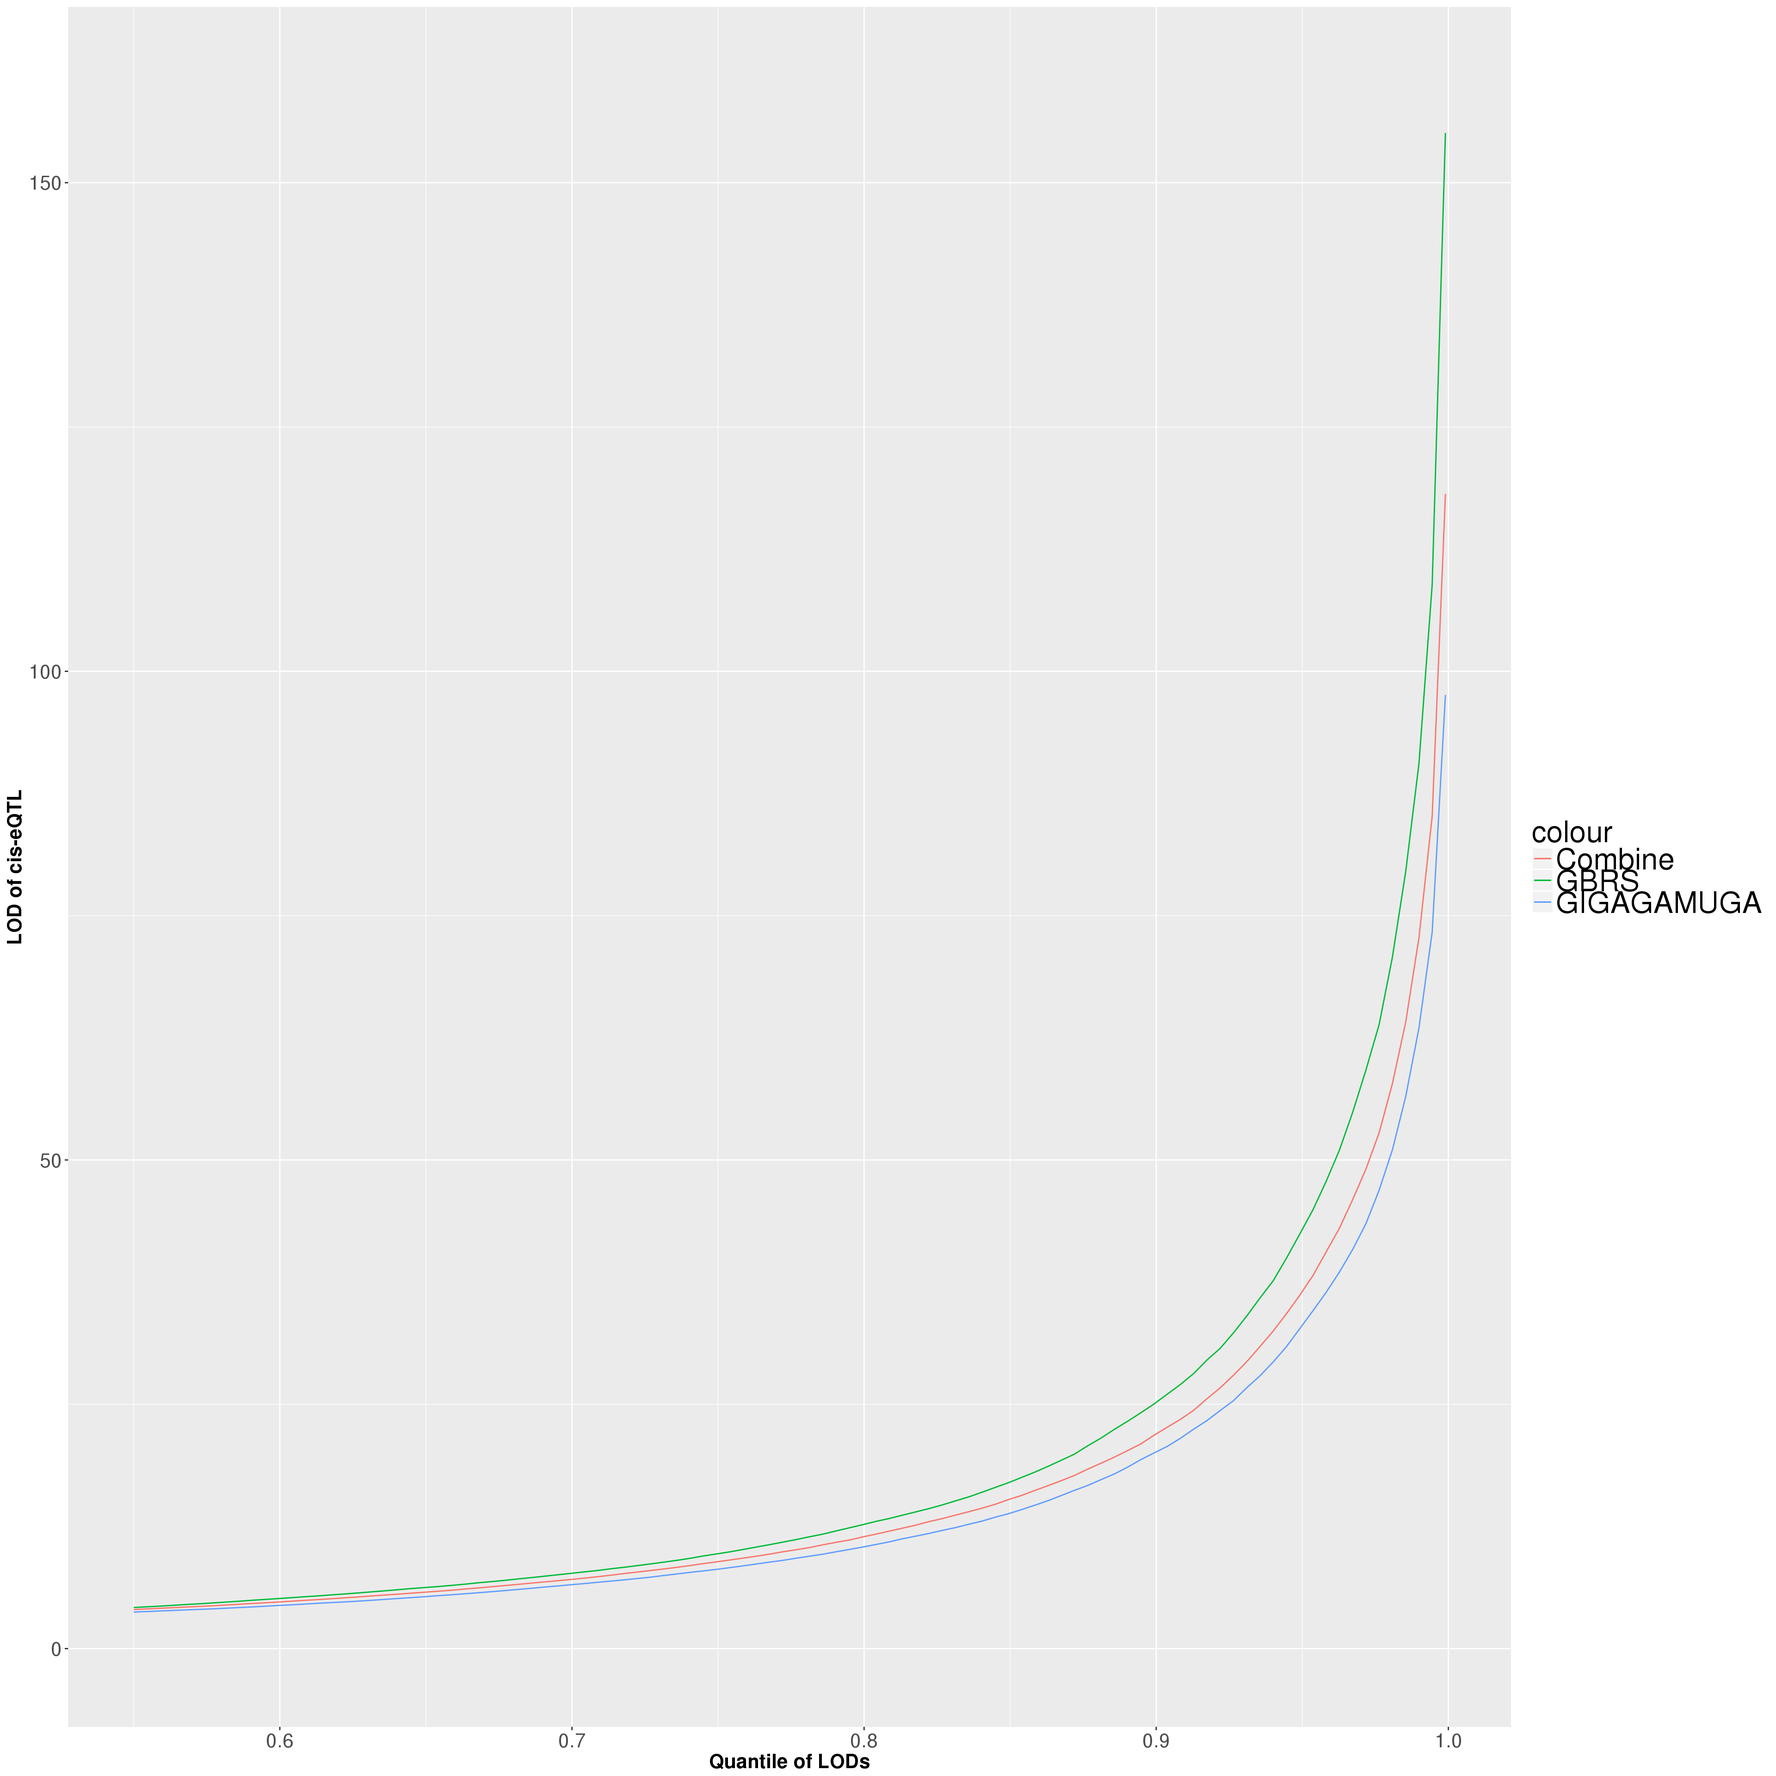
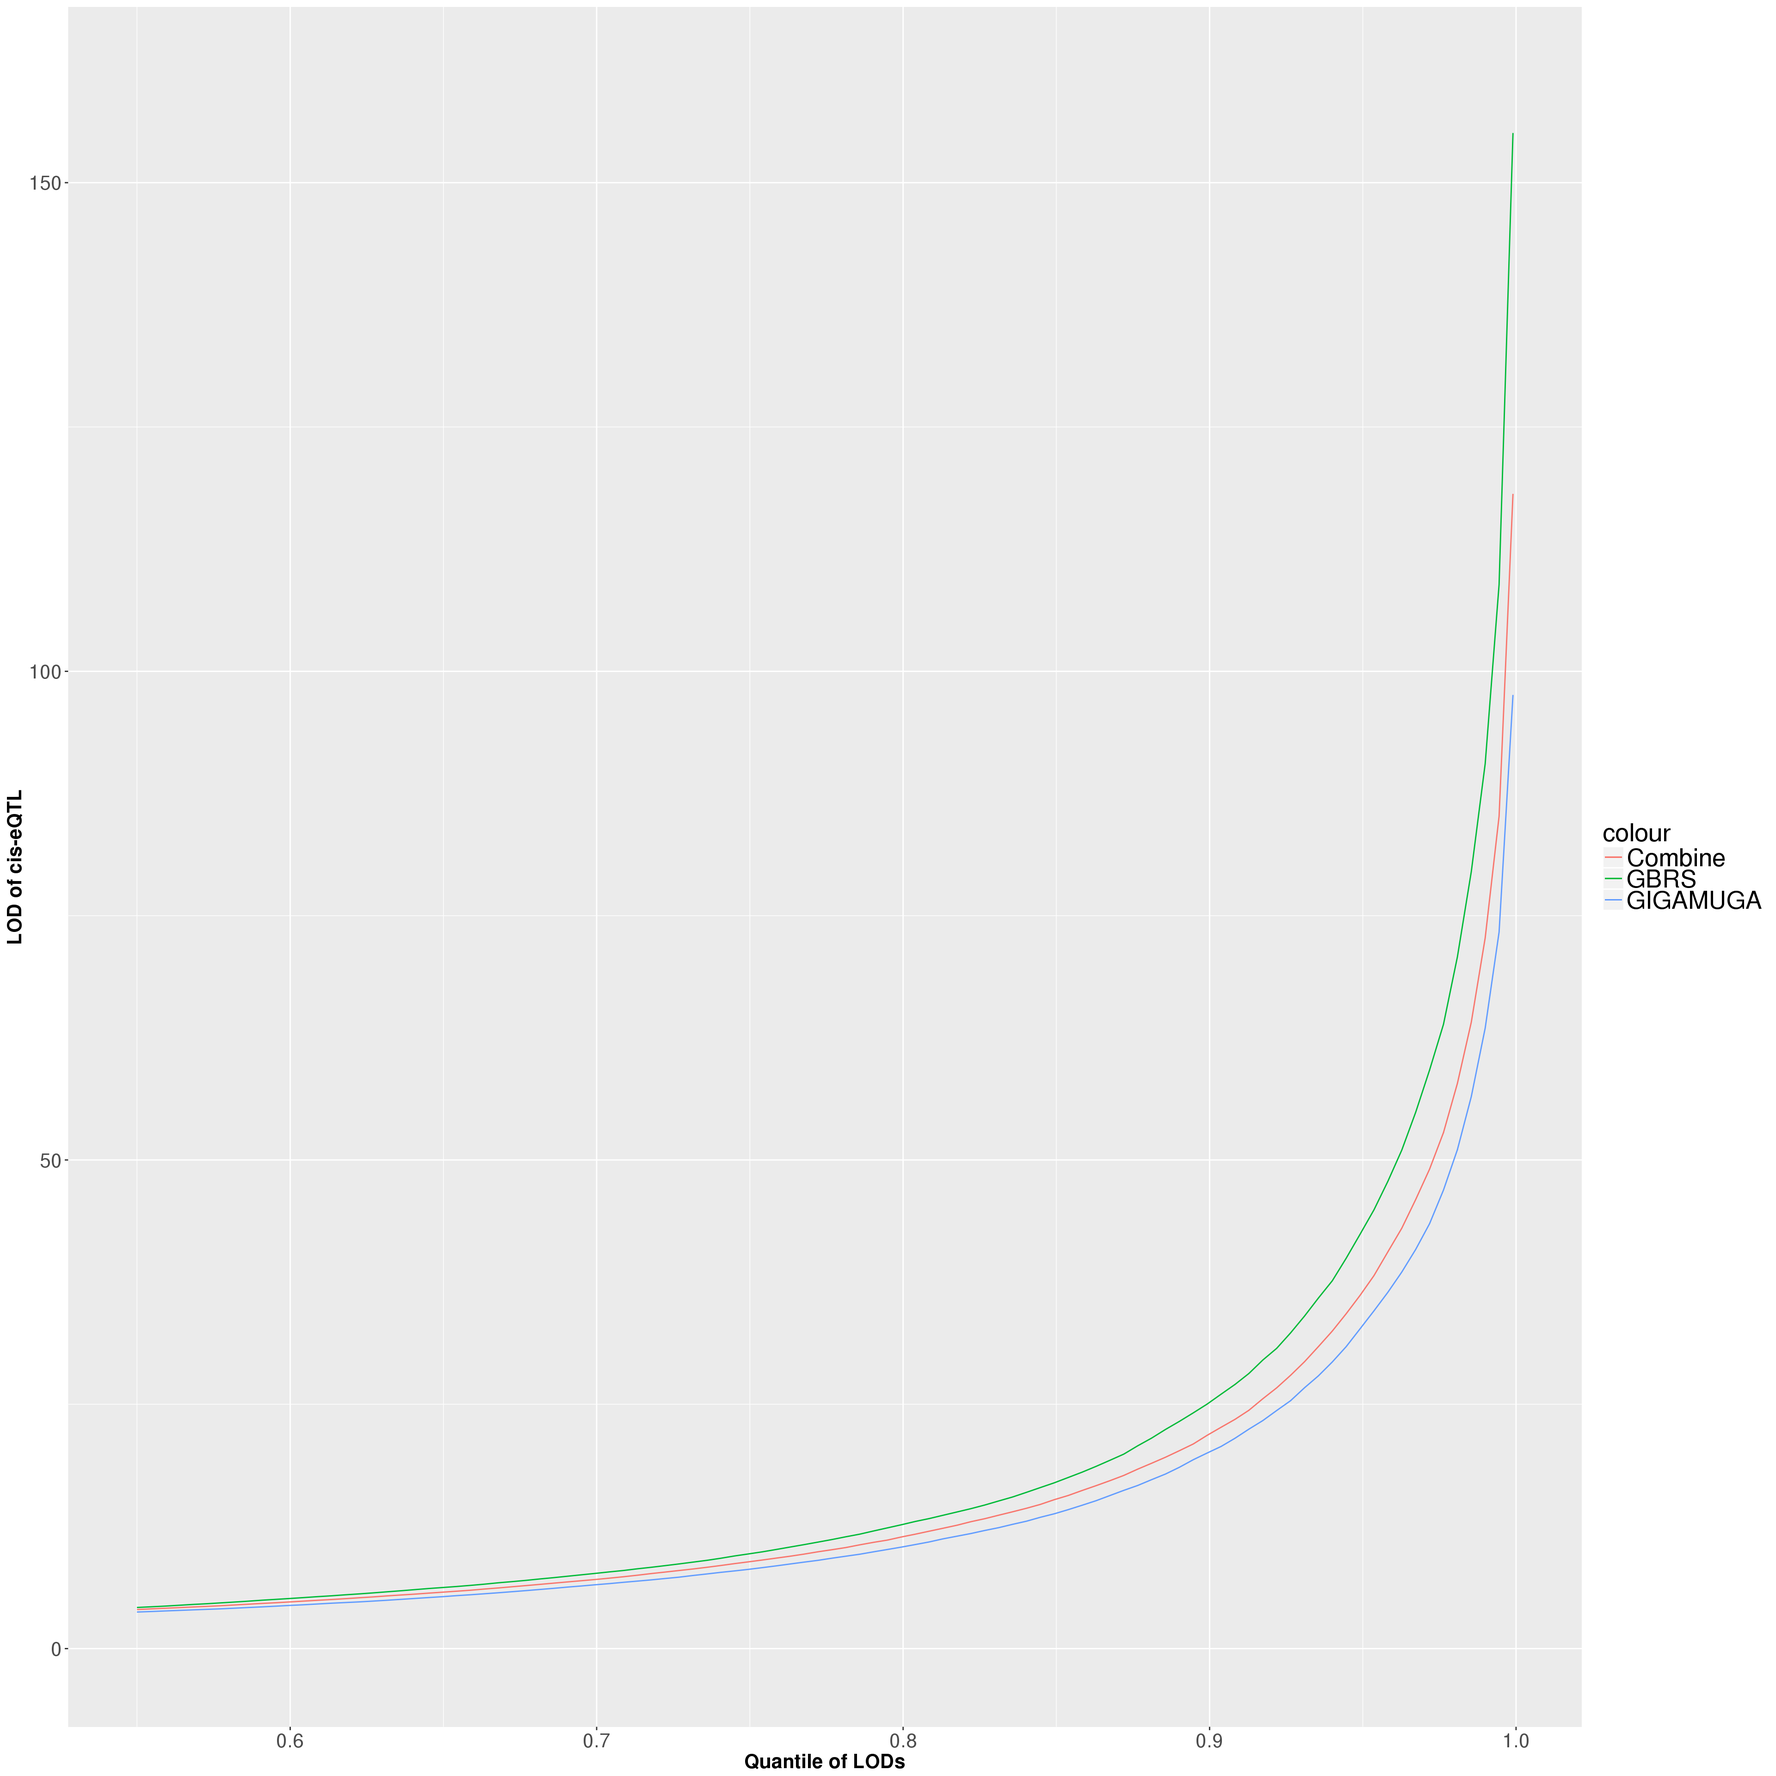
Build site.

diff --git a/docs/Cis-eQTL.html b/docs/Cis-eQTL.html
@@ -342,7 +342,7 @@ div.section {
 </details>
 </li>
 <li>
-<p><details> <summary> <strong style="color:blue;">✔</strong> <strong>Repository version:</strong> <a href="https://github.com/xhyuo/Workflowr_GBRS_array/tree/7c7bb1054c1fc1ddbe91b49e127b1cacd219a93a" target="_blank">7c7bb10</a> </summary></p>
+<p><details> <summary> <strong style="color:blue;">✔</strong> <strong>Repository version:</strong> <a href="https://github.com/xhyuo/Workflowr_GBRS_array/tree/3b86fac8c914ae22c00a15abd4f27bcd071012b1" target="_blank">3b86fac</a> </summary></p>
 Great! You are using Git for version control. Tracking code development and connecting the code version to the results is critical for reproducibility. The version displayed above was the version of the Git repository at the time these results were generated. <br><br> Note that you need to be careful to ensure that all relevant files for the analysis have been committed to Git prior to generating the results (you can use <code>wflow_publish</code> or <code>wflow_git_commit</code>). workflowr only checks the R Markdown file, but you know if there are other scripts or data files that it depends on. Below is the status of the Git repository when the results were generated:
 <pre><code>
 Ignored files:
@@ -385,6 +385,40 @@ Message
 </tr>
 </thead>
 <tbody>
+<tr>
+<td style="text-align:left;">
+Rmd
+</td>
+<td style="text-align:left;">
+<a href="https://github.com/xhyuo/Workflowr_GBRS_array/blob/3b86fac8c914ae22c00a15abd4f27bcd071012b1/analysis/Cis-eQTL.Rmd" target="_blank">3b86fac</a>
+</td>
+<td style="text-align:left;">
+xhyuo
+</td>
+<td style="text-align:left;">
+2018-11-07
+</td>
+<td style="text-align:left;">
+update building
+</td>
+</tr>
+<tr>
+<td style="text-align:left;">
+html
+</td>
+<td style="text-align:left;">
+<a href="https://cdn.rawgit.com/xhyuo/Workflowr_GBRS_array/68ba02d4ac51541f4d88098cb1312b8452074164/docs/Cis-eQTL.html" target="_blank">68ba02d</a>
+</td>
+<td style="text-align:left;">
+xhyuo
+</td>
+<td style="text-align:left;">
+2018-11-07
+</td>
+<td style="text-align:left;">
+Build site.
+</td>
+</tr>
 <tr>
 <td style="text-align:left;">
 Rmd
@@ -509,6 +543,17 @@ Date
 <tbody>
 <tr>
 <td style="text-align:left;">
+<a href="https://github.com/xhyuo/Workflowr_GBRS_array/blob/68ba02d4ac51541f4d88098cb1312b8452074164/docs/figure/Cis-eQTL.Rmd/Cis-eQTL between MUGA282 and GBRS282-1.png" target="_blank">68ba02d</a>
+</td>
+<td style="text-align:left;">
+xhyuo
+</td>
+<td style="text-align:left;">
+2018-11-07
+</td>
+</tr>
+<tr>
+<td style="text-align:left;">
 <a href="https://github.com/xhyuo/Workflowr_GBRS_array/blob/7ba11656b7324f9091573a12ba71c8218b05ed4e/docs/figure/Cis-eQTL.Rmd/Cis-eQTL between MUGA282 and GBRS282-1.png" target="_blank">7ba1165</a>
 </td>
 <td style="text-align:left;">
@@ -539,6 +584,17 @@ Date
 </tr>
 </thead>
 <tbody>
+<tr>
+<td style="text-align:left;">
+<a href="https://github.com/xhyuo/Workflowr_GBRS_array/blob/68ba02d4ac51541f4d88098cb1312b8452074164/docs/figure/Cis-eQTL.Rmd/Cis-eQTL between MUGA282 and GBRS282-2.png" target="_blank">68ba02d</a>
+</td>
+<td style="text-align:left;">
+xhyuo
+</td>
+<td style="text-align:left;">
+2018-11-07
+</td>
+</tr>
 <tr>
 <td style="text-align:left;">
 <a href="https://github.com/xhyuo/Workflowr_GBRS_array/blob/7ba11656b7324f9091573a12ba71c8218b05ed4e/docs/figure/Cis-eQTL.Rmd/Cis-eQTL between MUGA282 and GBRS282-2.png" target="_blank">7ba1165</a>
@@ -573,6 +629,17 @@ Date
 <tbody>
 <tr>
 <td style="text-align:left;">
+<a href="https://github.com/xhyuo/Workflowr_GBRS_array/blob/68ba02d4ac51541f4d88098cb1312b8452074164/docs/figure/Cis-eQTL.Rmd/Cis-eQTL between MUGA282 and GBRS282-3.png" target="_blank">68ba02d</a>
+</td>
+<td style="text-align:left;">
+xhyuo
+</td>
+<td style="text-align:left;">
+2018-11-07
+</td>
+</tr>
+<tr>
+<td style="text-align:left;">
 <a href="https://github.com/xhyuo/Workflowr_GBRS_array/blob/7ba11656b7324f9091573a12ba71c8218b05ed4e/docs/figure/Cis-eQTL.Rmd/Cis-eQTL between MUGA282 and GBRS282-3.png" target="_blank">7ba1165</a>
 </td>
 <td style="text-align:left;">
@@ -605,6 +672,17 @@ Date
 <tbody>
 <tr>
 <td style="text-align:left;">
+<a href="https://github.com/xhyuo/Workflowr_GBRS_array/blob/68ba02d4ac51541f4d88098cb1312b8452074164/docs/figure/Cis-eQTL.Rmd/Cis-eQTL between MUGA282 and GBRS282-4.png" target="_blank">68ba02d</a>
+</td>
+<td style="text-align:left;">
+xhyuo
+</td>
+<td style="text-align:left;">
+2018-11-07
+</td>
+</tr>
+<tr>
+<td style="text-align:left;">
 <a href="https://github.com/xhyuo/Workflowr_GBRS_array/blob/7ba11656b7324f9091573a12ba71c8218b05ed4e/docs/figure/Cis-eQTL.Rmd/Cis-eQTL between MUGA282 and GBRS282-4.png" target="_blank">7ba1165</a>
 </td>
 <td style="text-align:left;">
@@ -635,6 +713,17 @@ Date
 </tr>
 </thead>
 <tbody>
+<tr>
+<td style="text-align:left;">
+<a href="https://github.com/xhyuo/Workflowr_GBRS_array/blob/68ba02d4ac51541f4d88098cb1312b8452074164/docs/figure/Cis-eQTL.Rmd/Cis-eQTL between MUGA282 and GBRS282-5.png" target="_blank">68ba02d</a>
+</td>
+<td style="text-align:left;">
+xhyuo
+</td>
+<td style="text-align:left;">
+2018-11-07
+</td>
+</tr>
 <tr>
 <td style="text-align:left;">
 <a href="https://github.com/xhyuo/Workflowr_GBRS_array/blob/7ba11656b7324f9091573a12ba71c8218b05ed4e/docs/figure/Cis-eQTL.Rmd/Cis-eQTL between MUGA282 and GBRS282-5.png" target="_blank">7ba1165</a>
@@ -671,6 +760,17 @@ Date
 </tr>
 </thead>
 <tbody>
+<tr>
+<td style="text-align:left;">
+<a href="https://github.com/xhyuo/Workflowr_GBRS_array/blob/68ba02d4ac51541f4d88098cb1312b8452074164/docs/figure/Cis-eQTL.Rmd/Cis-eQTL between MUGA282 and GBRS282-6.png" target="_blank">68ba02d</a>
+</td>
+<td style="text-align:left;">
+xhyuo
+</td>
+<td style="text-align:left;">
+2018-11-07
+</td>
+</tr>
 <tr>
 <td style="text-align:left;">
 <a href="https://github.com/xhyuo/Workflowr_GBRS_array/blob/7ba11656b7324f9091573a12ba71c8218b05ed4e/docs/figure/Cis-eQTL.Rmd/Cis-eQTL between MUGA282 and GBRS282-6.png" target="_blank">7ba1165</a>
@@ -755,6 +855,17 @@ Date
 <tbody>
 <tr>
 <td style="text-align:left;">
+<a href="https://github.com/xhyuo/Workflowr_GBRS_array/blob/68ba02d4ac51541f4d88098cb1312b8452074164/docs/figure/Cis-eQTL.Rmd/Cis-eQTL between MEGAMUGA200 and GBRS200-1.png" target="_blank">68ba02d</a>
+</td>
+<td style="text-align:left;">
+xhyuo
+</td>
+<td style="text-align:left;">
+2018-11-07
+</td>
+</tr>
+<tr>
+<td style="text-align:left;">
 <a href="https://github.com/xhyuo/Workflowr_GBRS_array/blob/7ba11656b7324f9091573a12ba71c8218b05ed4e/docs/figure/Cis-eQTL.Rmd/Cis-eQTL between MEGAMUGA200 and GBRS200-1.png" target="_blank">7ba1165</a>
 </td>
 <td style="text-align:left;">
@@ -785,6 +896,17 @@ Date
 </tr>
 </thead>
 <tbody>
+<tr>
+<td style="text-align:left;">
+<a href="https://github.com/xhyuo/Workflowr_GBRS_array/blob/68ba02d4ac51541f4d88098cb1312b8452074164/docs/figure/Cis-eQTL.Rmd/Cis-eQTL between MEGAMUGA200 and GBRS200-2.png" target="_blank">68ba02d</a>
+</td>
+<td style="text-align:left;">
+xhyuo
+</td>
+<td style="text-align:left;">
+2018-11-07
+</td>
+</tr>
 <tr>
 <td style="text-align:left;">
 <a href="https://github.com/xhyuo/Workflowr_GBRS_array/blob/7ba11656b7324f9091573a12ba71c8218b05ed4e/docs/figure/Cis-eQTL.Rmd/Cis-eQTL between MEGAMUGA200 and GBRS200-2.png" target="_blank">7ba1165</a>
@@ -819,6 +941,17 @@ Date
 <tbody>
 <tr>
 <td style="text-align:left;">
+<a href="https://github.com/xhyuo/Workflowr_GBRS_array/blob/68ba02d4ac51541f4d88098cb1312b8452074164/docs/figure/Cis-eQTL.Rmd/Cis-eQTL between MEGAMUGA200 and GBRS200-3.png" target="_blank">68ba02d</a>
+</td>
+<td style="text-align:left;">
+xhyuo
+</td>
+<td style="text-align:left;">
+2018-11-07
+</td>
+</tr>
+<tr>
+<td style="text-align:left;">
 <a href="https://github.com/xhyuo/Workflowr_GBRS_array/blob/7ba11656b7324f9091573a12ba71c8218b05ed4e/docs/figure/Cis-eQTL.Rmd/Cis-eQTL between MEGAMUGA200 and GBRS200-3.png" target="_blank">7ba1165</a>
 </td>
 <td style="text-align:left;">
@@ -851,6 +984,17 @@ Date
 <tbody>
 <tr>
 <td style="text-align:left;">
+<a href="https://github.com/xhyuo/Workflowr_GBRS_array/blob/68ba02d4ac51541f4d88098cb1312b8452074164/docs/figure/Cis-eQTL.Rmd/Cis-eQTL between MEGAMUGA200 and GBRS200-4.png" target="_blank">68ba02d</a>
+</td>
+<td style="text-align:left;">
+xhyuo
+</td>
+<td style="text-align:left;">
+2018-11-07
+</td>
+</tr>
+<tr>
+<td style="text-align:left;">
 <a href="https://github.com/xhyuo/Workflowr_GBRS_array/blob/7ba11656b7324f9091573a12ba71c8218b05ed4e/docs/figure/Cis-eQTL.Rmd/Cis-eQTL between MEGAMUGA200 and GBRS200-4.png" target="_blank">7ba1165</a>
 </td>
 <td style="text-align:left;">
@@ -881,6 +1025,17 @@ Date
 </tr>
 </thead>
 <tbody>
+<tr>
+<td style="text-align:left;">
+<a href="https://github.com/xhyuo/Workflowr_GBRS_array/blob/68ba02d4ac51541f4d88098cb1312b8452074164/docs/figure/Cis-eQTL.Rmd/Cis-eQTL between MEGAMUGA200 and GBRS200-5.png" target="_blank">68ba02d</a>
+</td>
+<td style="text-align:left;">
+xhyuo
+</td>
+<td style="text-align:left;">
+2018-11-07
+</td>
+</tr>
 <tr>
 <td style="text-align:left;">
 <a href="https://github.com/xhyuo/Workflowr_GBRS_array/blob/7ba11656b7324f9091573a12ba71c8218b05ed4e/docs/figure/Cis-eQTL.Rmd/Cis-eQTL between MEGAMUGA200 and GBRS200-5.png" target="_blank">7ba1165</a>
@@ -917,6 +1072,17 @@ Date
 </tr>
 </thead>
 <tbody>
+<tr>
+<td style="text-align:left;">
+<a href="https://github.com/xhyuo/Workflowr_GBRS_array/blob/68ba02d4ac51541f4d88098cb1312b8452074164/docs/figure/Cis-eQTL.Rmd/Cis-eQTL between MEGAMUGA200 and GBRS200-6.png" target="_blank">68ba02d</a>
+</td>
+<td style="text-align:left;">
+xhyuo
+</td>
+<td style="text-align:left;">
+2018-11-07
+</td>
+</tr>
 <tr>
 <td style="text-align:left;">
 <a href="https://github.com/xhyuo/Workflowr_GBRS_array/blob/7ba11656b7324f9091573a12ba71c8218b05ed4e/docs/figure/Cis-eQTL.Rmd/Cis-eQTL between MEGAMUGA200 and GBRS200-6.png" target="_blank">7ba1165</a>
@@ -956,13 +1122,13 @@ cislod.369.plot &lt;- data.frame(qgrid = seq(from=0.55, to=0.999, length=100),
                                 lod.array = quantile(lod.gigamuga369$lod[!is.nan(lod.gigamuga369$lod)], seq(from=0.55, to=0.999, length=100)),
                                 lod.combine = quantile(lod.combine369$lod[!is.nan(lod.combine369$lod)], seq(from=0.55, to=0.999, length=100)))
 p &lt;- ggplot(cislod.369.plot, aes(qgrid)) + 
-     geom_line(aes(y = lod.array, colour = &quot;GIGAGAMUGA&quot;)) +
+     geom_line(aes(y = lod.array, colour = &quot;GIGAMUGA&quot;)) +
      geom_line(aes(y = lod.gbrs, colour = &quot;GBRS&quot;)) +
      geom_line(aes(y = lod.combine, colour = &quot;Combine&quot;)) +
      xlab(&quot;Quantile of LODs&quot;) +
      ylab(&quot;LOD of cis-eQTL&quot;) +
      scale_y_continuous(limits=c(0, 160)) +
-     theme(plot.title = element_text(hjust = 0.5), legend.title=element_text(size=24),legend.text=element_text(size=24)) +
+     theme(plot.title = element_text(hjust = 0.5), legend.title=element_text(size=20),legend.text=element_text(size=20)) +
      theme(axis.text=element_text(size=16),axis.title=element_text(size=16,face=&quot;bold&quot;))
 
 #pdf(&quot;Cis-eQTL between GBRS and GIGAMUGA.pdf&quot;, width=20)
@@ -985,6 +1151,17 @@ Date
 </tr>
 </thead>
 <tbody>
+<tr>
+<td style="text-align:left;">
+<a href="https://github.com/xhyuo/Workflowr_GBRS_array/blob/68ba02d4ac51541f4d88098cb1312b8452074164/docs/figure/Cis-eQTL.Rmd/Cis-eQTL between GIGAMUGA369 and GBRS369-1.png" target="_blank">68ba02d</a>
+</td>
+<td style="text-align:left;">
+xhyuo
+</td>
+<td style="text-align:left;">
+2018-11-07
+</td>
+</tr>
 <tr>
 <td style="text-align:left;">
 <a href="https://github.com/xhyuo/Workflowr_GBRS_array/blob/7ba11656b7324f9091573a12ba71c8218b05ed4e/docs/figure/Cis-eQTL.Rmd/Cis-eQTL between GIGAMUGA369 and GBRS369-1.png" target="_blank">7ba1165</a>

diff --git a/docs/license.html b/docs/license.html
@@ -225,7 +225,7 @@ div.section {
 </details>
 </li>
 <li>
-<p><details> <summary> <strong style="color:blue;">✔</strong> <strong>Repository version:</strong> <a href="https://github.com/xhyuo/Workflowr_GBRS_array/tree/7c7bb1054c1fc1ddbe91b49e127b1cacd219a93a" target="_blank">7c7bb10</a> </summary></p>
+<p><details> <summary> <strong style="color:blue;">✔</strong> <strong>Repository version:</strong> <a href="https://github.com/xhyuo/Workflowr_GBRS_array/tree/3b86fac8c914ae22c00a15abd4f27bcd071012b1" target="_blank">3b86fac</a> </summary></p>
 Great! You are using Git for version control. Tracking code development and connecting the code version to the results is critical for reproducibility. The version displayed above was the version of the Git repository at the time these results were generated. <br><br> Note that you need to be careful to ensure that all relevant files for the analysis have been committed to Git prior to generating the results (you can use <code>wflow_publish</code> or <code>wflow_git_commit</code>). workflowr only checks the R Markdown file, but you know if there are other scripts or data files that it depends on. Below is the status of the Git repository when the results were generated:
 <pre><code>
 Ignored files:
@@ -268,6 +268,23 @@ Message
 </tr>
 </thead>
 <tbody>
+<tr>
+<td style="text-align:left;">
+html
+</td>
+<td style="text-align:left;">
+<a href="https://cdn.rawgit.com/xhyuo/Workflowr_GBRS_array/68ba02d4ac51541f4d88098cb1312b8452074164/docs/license.html" target="_blank">68ba02d</a>
+</td>
+<td style="text-align:left;">
+xhyuo
+</td>
+<td style="text-align:left;">
+2018-11-07
+</td>
+<td style="text-align:left;">
+Build site.
+</td>
+</tr>
 <tr>
 <td style="text-align:left;">
 html

diff --git a/docs/index.html b/docs/index.html
@@ -225,7 +225,7 @@ div.section {
 </details>
 </li>
 <li>
-<p><details> <summary> <strong style="color:blue;">✔</strong> <strong>Repository version:</strong> <a href="https://github.com/xhyuo/Workflowr_GBRS_array/tree/7c7bb1054c1fc1ddbe91b49e127b1cacd219a93a" target="_blank">7c7bb10</a> </summary></p>
+<p><details> <summary> <strong style="color:blue;">✔</strong> <strong>Repository version:</strong> <a href="https://github.com/xhyuo/Workflowr_GBRS_array/tree/3b86fac8c914ae22c00a15abd4f27bcd071012b1" target="_blank">3b86fac</a> </summary></p>
 Great! You are using Git for version control. Tracking code development and connecting the code version to the results is critical for reproducibility. The version displayed above was the version of the Git repository at the time these results were generated. <br><br> Note that you need to be careful to ensure that all relevant files for the analysis have been committed to Git prior to generating the results (you can use <code>wflow_publish</code> or <code>wflow_git_commit</code>). workflowr only checks the R Markdown file, but you know if there are other scripts or data files that it depends on. Below is the status of the Git repository when the results were generated:
 <pre><code>
 Ignored files:
@@ -268,6 +268,23 @@ Message
 </tr>
 </thead>
 <tbody>
+<tr>
+<td style="text-align:left;">
+html
+</td>
+<td style="text-align:left;">
+<a href="https://cdn.rawgit.com/xhyuo/Workflowr_GBRS_array/68ba02d4ac51541f4d88098cb1312b8452074164/docs/index.html" target="_blank">68ba02d</a>
+</td>
+<td style="text-align:left;">
+xhyuo
+</td>
+<td style="text-align:left;">
+2018-11-07
+</td>
+<td style="text-align:left;">
+Build site.
+</td>
+</tr>
 <tr>
 <td style="text-align:left;">
 html
